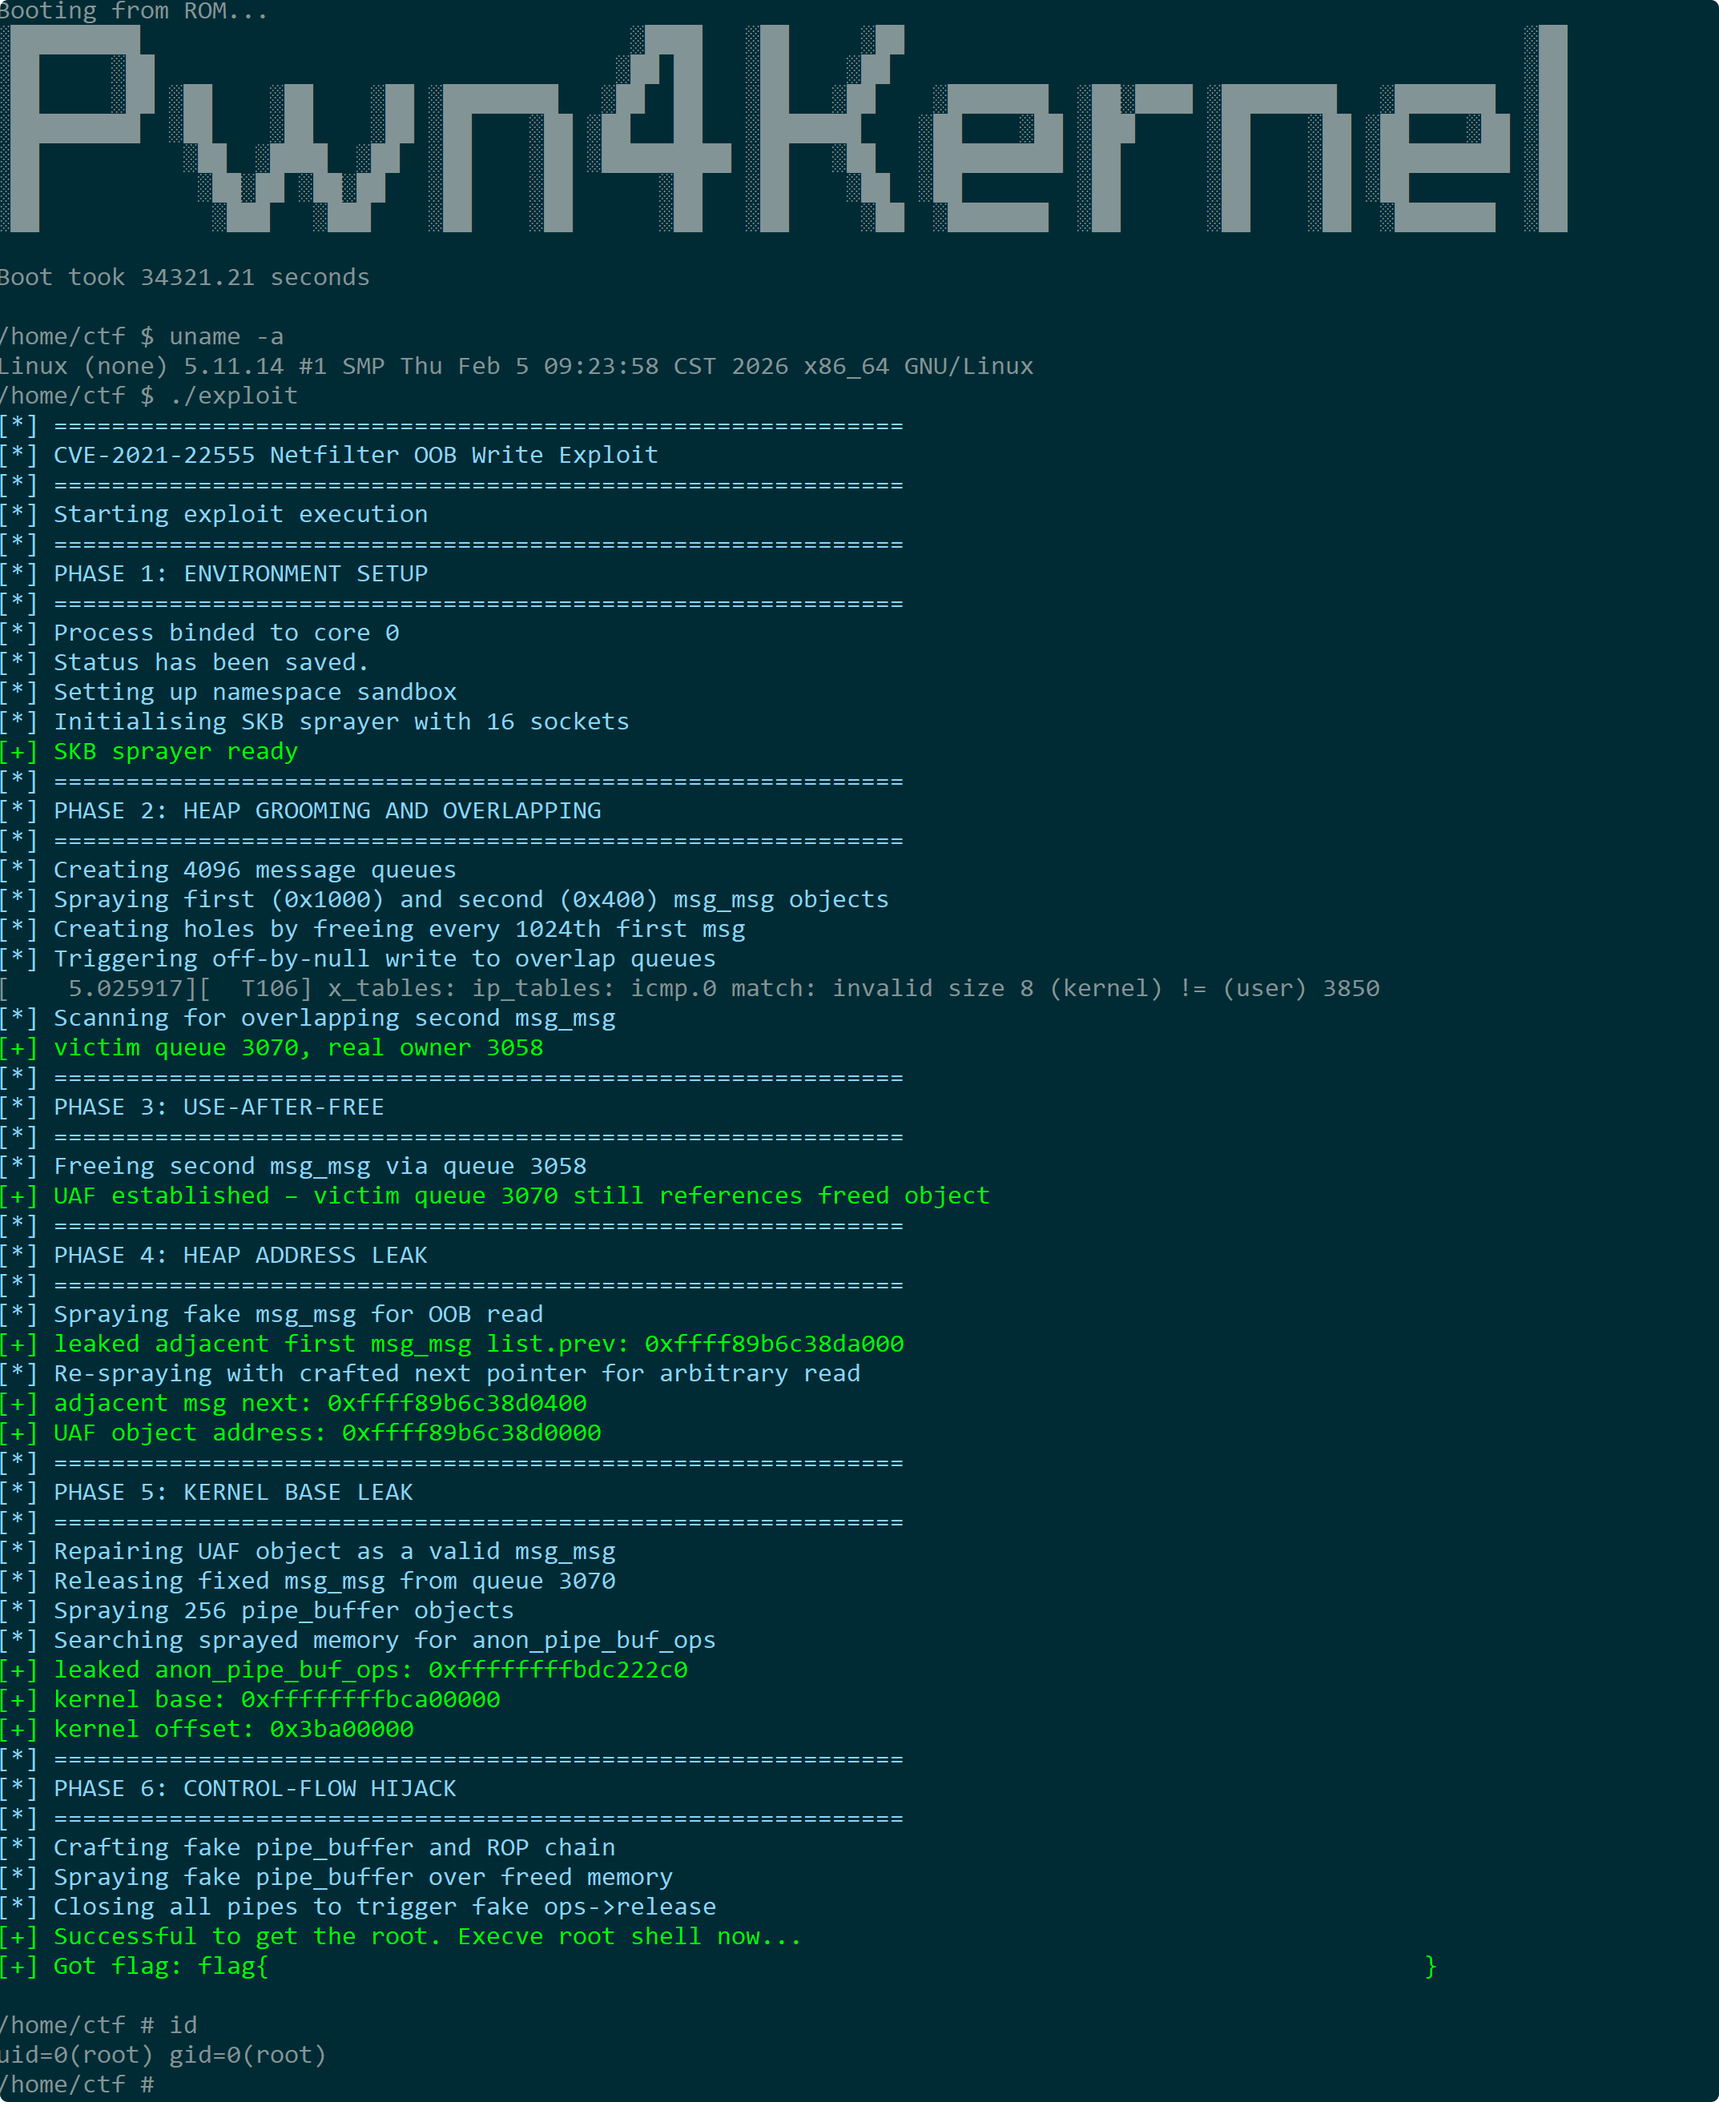
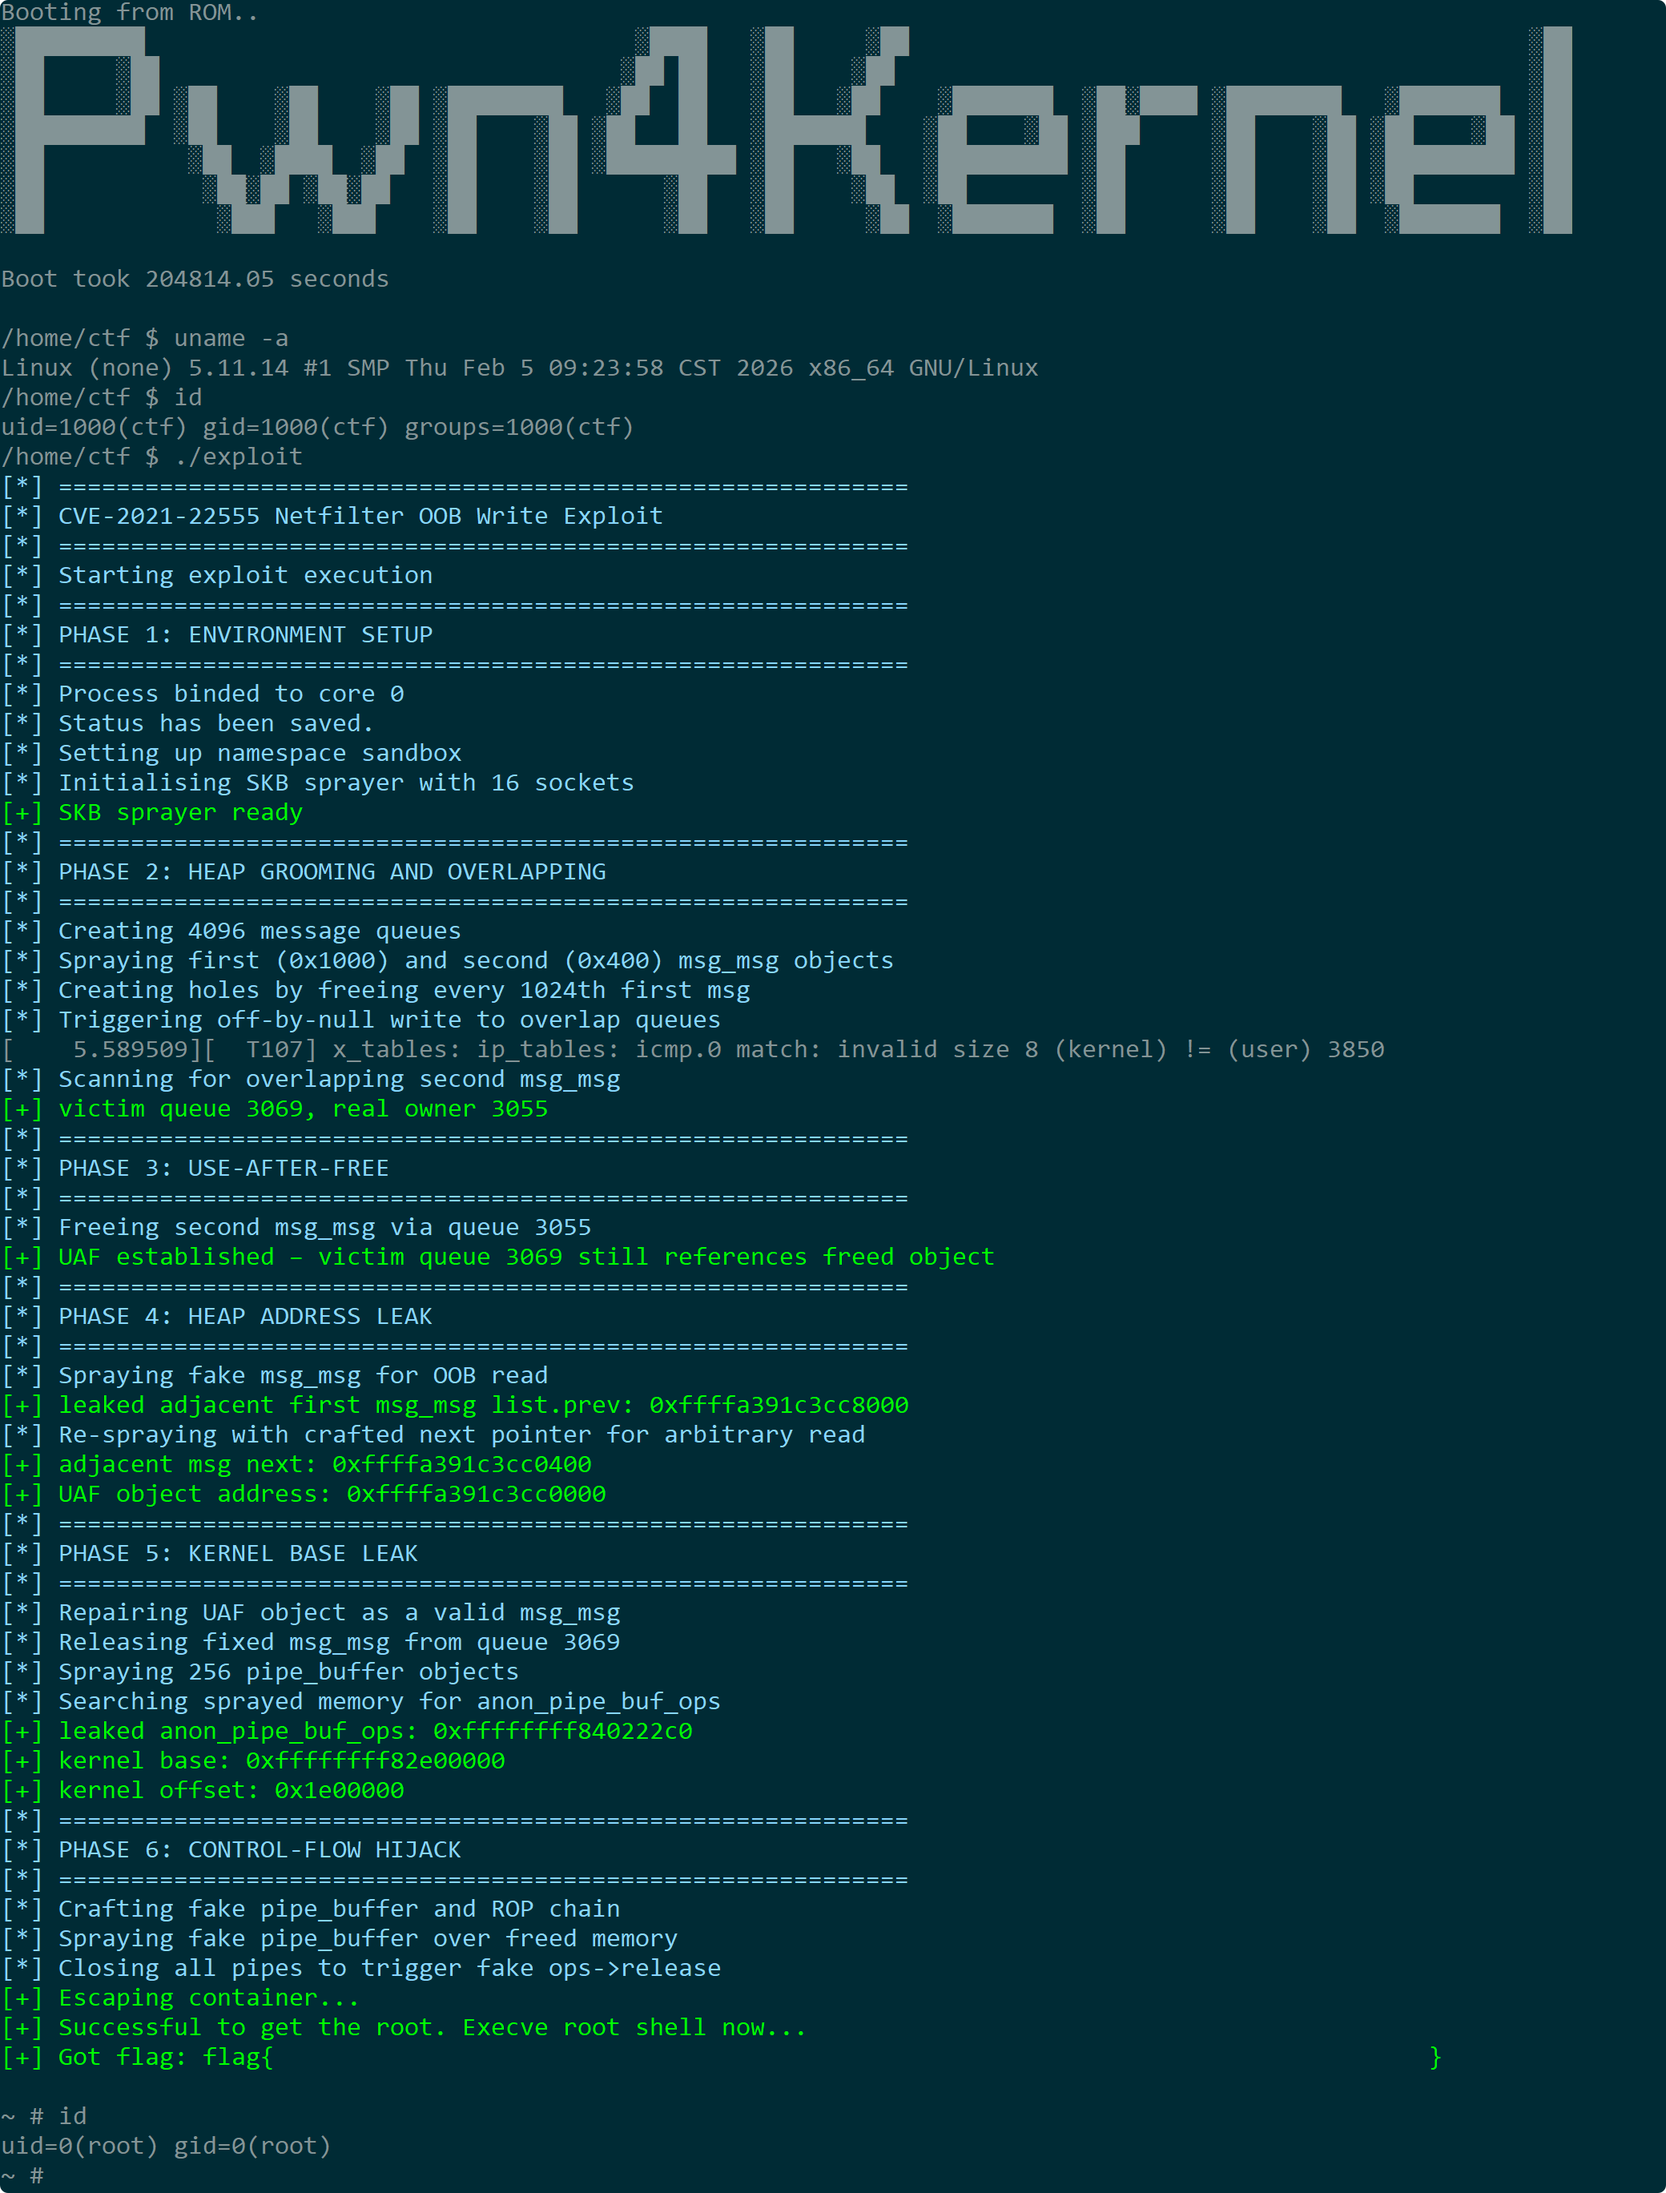
update 【Kernel Exploit】CVE-2021-22555 漏洞分析

Changed region(s): [[0.0, 0.0, 0.9688, 0.9996], [0.7188, 0.4686, 0.8125, 0.4998]]

diff --git a/_posts/2026-05-23-KernelExploit-CVE-2021-22555.md b/_posts/2026-05-23-KernelExploit-CVE-2021-22555.md
@@ -1157,8 +1157,8 @@ flowchart TD
 ```mermaid
 flowchart LR
     subgraph 用户空间缓冲区
-        FAKE_PIPE[伪造pipe_buffer<br/>ops=缓冲区+偏移]
-        FAKE_OPS[伪造pipe_buf_operations<br/>release=栈迁移gadget<br/>confirm=偏移控制gadget]
+        FAKE_PIPE[伪造pipe_buffer->ops=缓冲区+偏移]
+        FAKE_OPS[伪造pipe_buf_operations->release=栈迁移gadget; pipe_buf_operations.release->confirm=偏移控制gadget]
         ROP[ROP链]
         FAKE_PIPE --> FAKE_OPS
         FAKE_OPS --> ROP
@@ -1169,14 +1169,14 @@ flowchart LR
 
 ```mermaid
 flowchart TD
-    R1[调用find_task_by_vpid获取init进程] --> R2[调用switch_task_namespaces切换命名空间]
-    R2 --> R3[调用prepare_kernel_cred生成root凭证]
-    R3 --> R4[调用commit_creds应用root凭证]
+    R1[调用prepare_kernel_cred生成root凭证] --> R2[调用commit_creds应用root凭证]
+    R2 --> R3[调用find_task_by_vpid获取init进程]
+    R3 --> R4[调用switch_task_namespaces切换命名空间]
     R4 --> R5[调用内核返回路径返回用户态]
     R5 --> R6[执行提权后shell]
 ```
 
-首先调用 `find_task_by_vpid(1)` 获取 init 进程的 `task_struct` 指针；接着调用 `switch_task_namespaces`，将当前进程的命名空间替换为 init 进程的命名空间，从而突破容器隔离边界；随后调用 `prepare_kernel_cred(0)` 生成 root 凭证结构体，再调用 `commit_creds` 将其应用到当前进程；最后执行内核原生返回路径，配合预设的用户态寄存器上下文，平滑地返回用户空间的提权后处理函数。
+首先调用 `prepare_kernel_cred(0)` 生成 root 凭证结构体，再调用 `commit_creds` 将其应用到当前进程，完成权限提升；随后调用 `find_task_by_vpid(1)` 获取 init 进程的 `task_struct` 指针，接着调用 `switch_task_namespaces`，将当前进程的命名空间替换为 init 进程的命名空间，从而突破容器隔离边界；最后执行内核原生返回路径，配合预设的用户态寄存器上下文，平滑地返回用户空间的提权后处理函数。
 
 **触发与执行**：将构造好的伪造 `pipe_buffer` 通过 `sk_buff` 写入 UAF 内存——此时该内存已被 `pipe_buffer` 回收，但受害队列仍持有悬空引用，因此写入操作实际上覆盖了真实的 `pipe_buffer`。随后关闭所有管道，内核在销毁每个管道时会遍历其 `pipe_buffer` 数组并调用 `ops->release` 回调。对于被篡改的管道，这一调用将触发前述的栈迁移 gadget，进而启动 ROP 链的执行。
 
